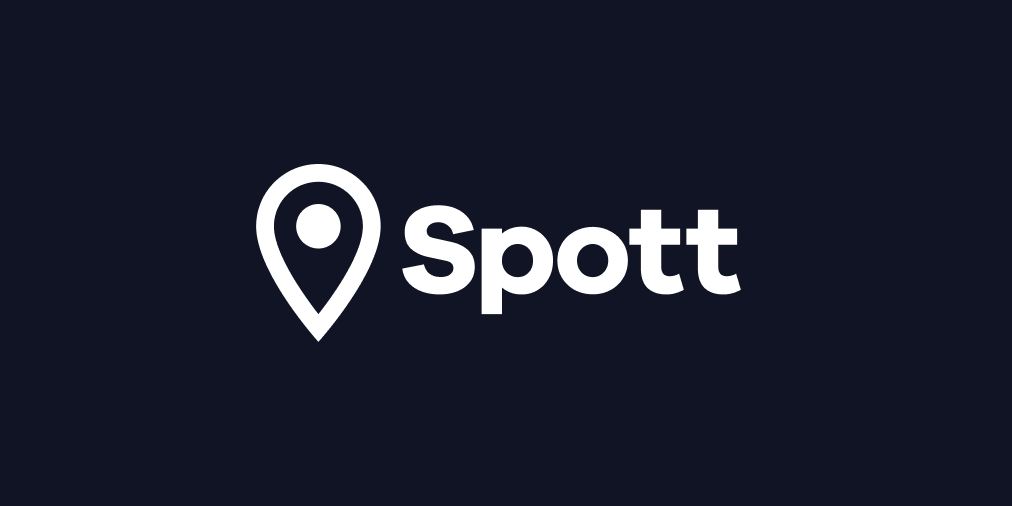
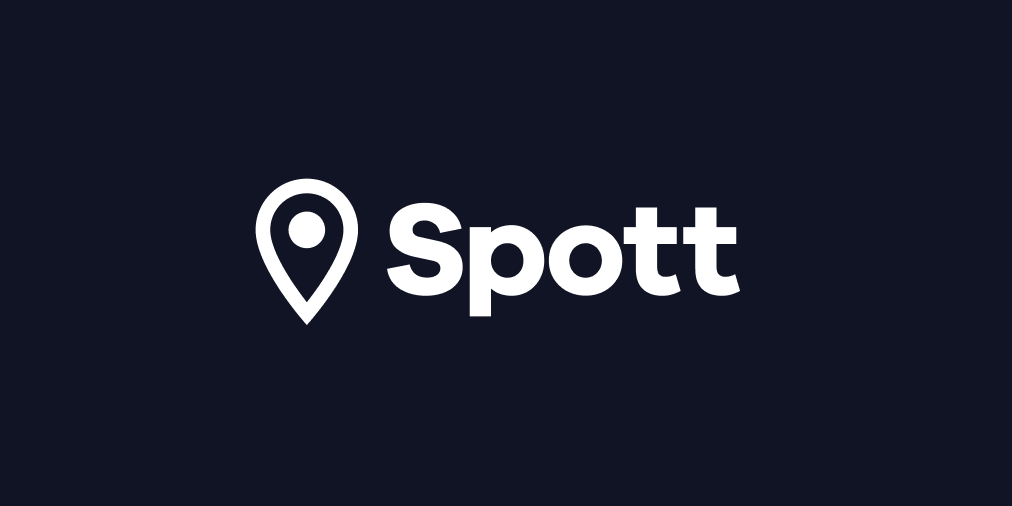
ロゴを修正

Changed region(s): [[0.2451, 0.3261, 0.7352, 0.6818], [0.6739, 0.3854, 0.7045, 0.415]]

diff --git a/_layouts/index.html b/_layouts/index.html
@@ -18,7 +18,7 @@
 
 <body>
     <aside class="side-left">
-        <img class="logo" src="/assets/logo.svg" alt="Spott">
+        <img class="logo" src="https://akinening.github.io/bookmark/assets/logo.svg" alt="Spott">
         <nav class="menu">
             {% if page.active == "top" %}
             <a class="menu-list active" href="./">TOP</a>
@@ -102,8 +102,8 @@ a {
     background-color: #111424;
 }
 .logo {
-    width: 200px;
-    margin-top: 8px;
+    width: 180px;
+    margin: 16px 0 0 105px;
 }
 .menu {
     display: flex;
